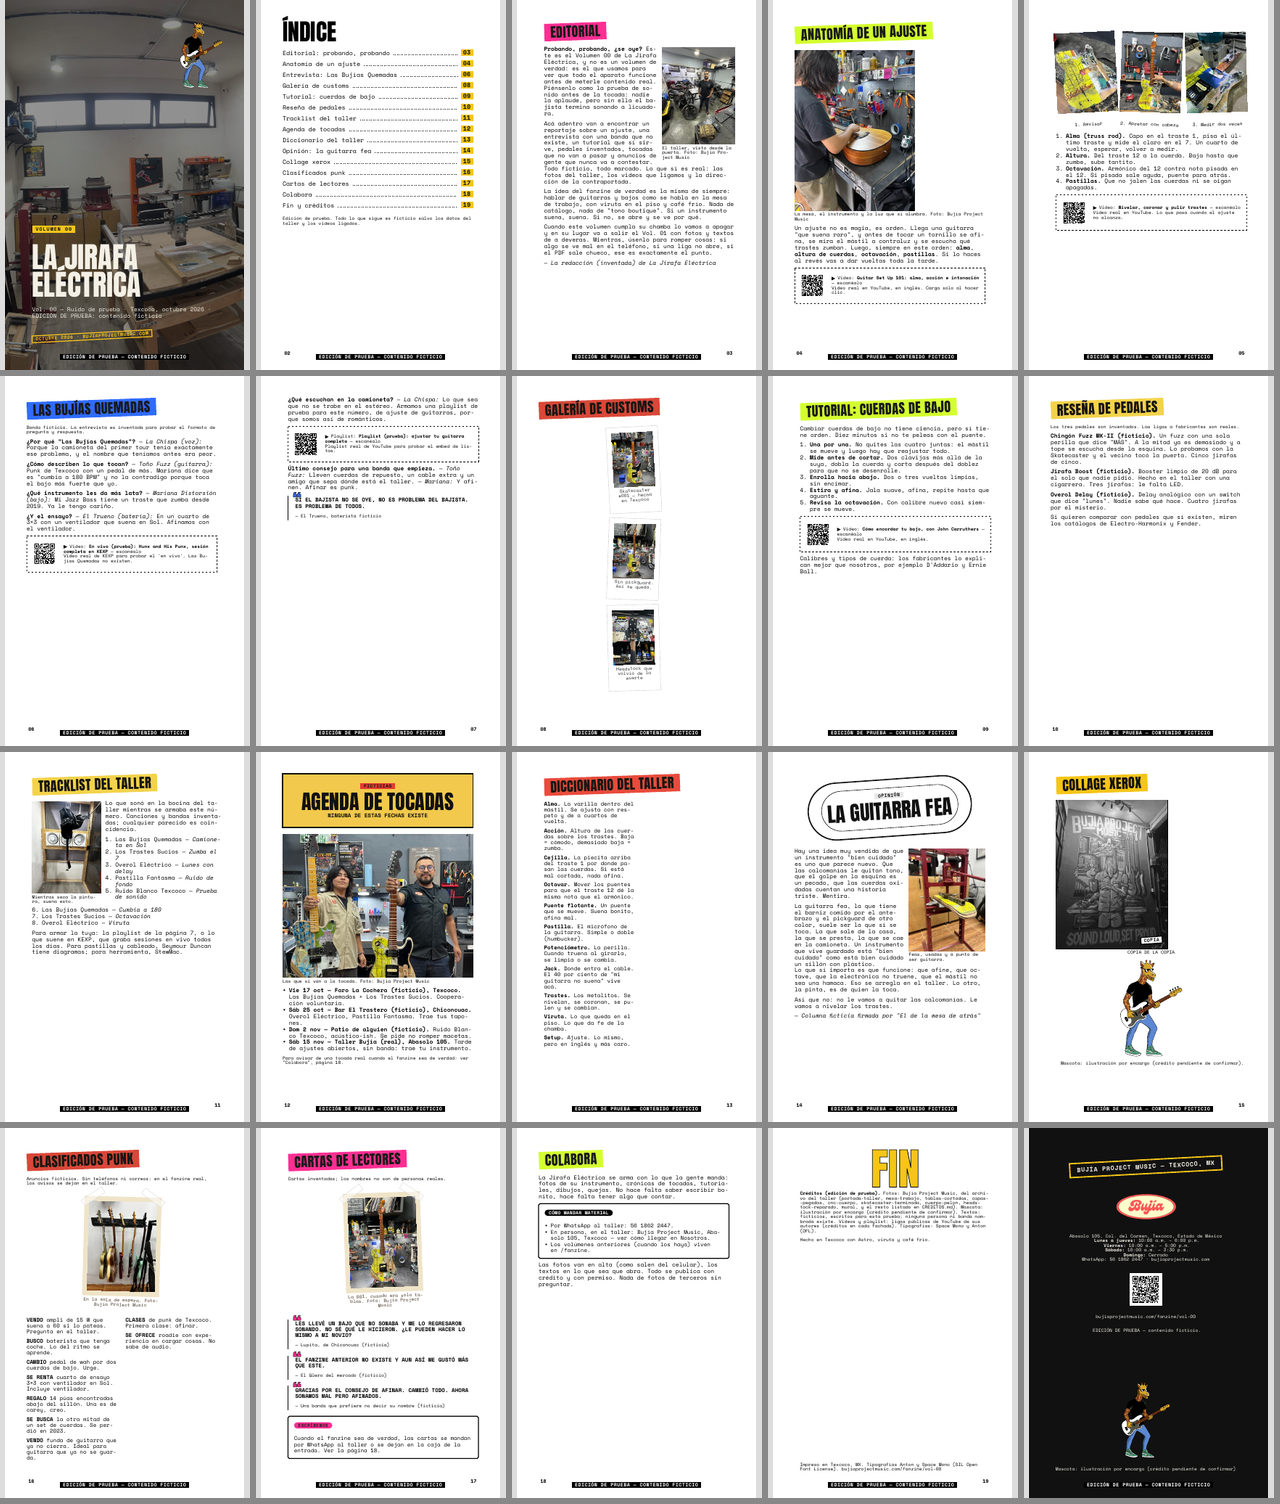
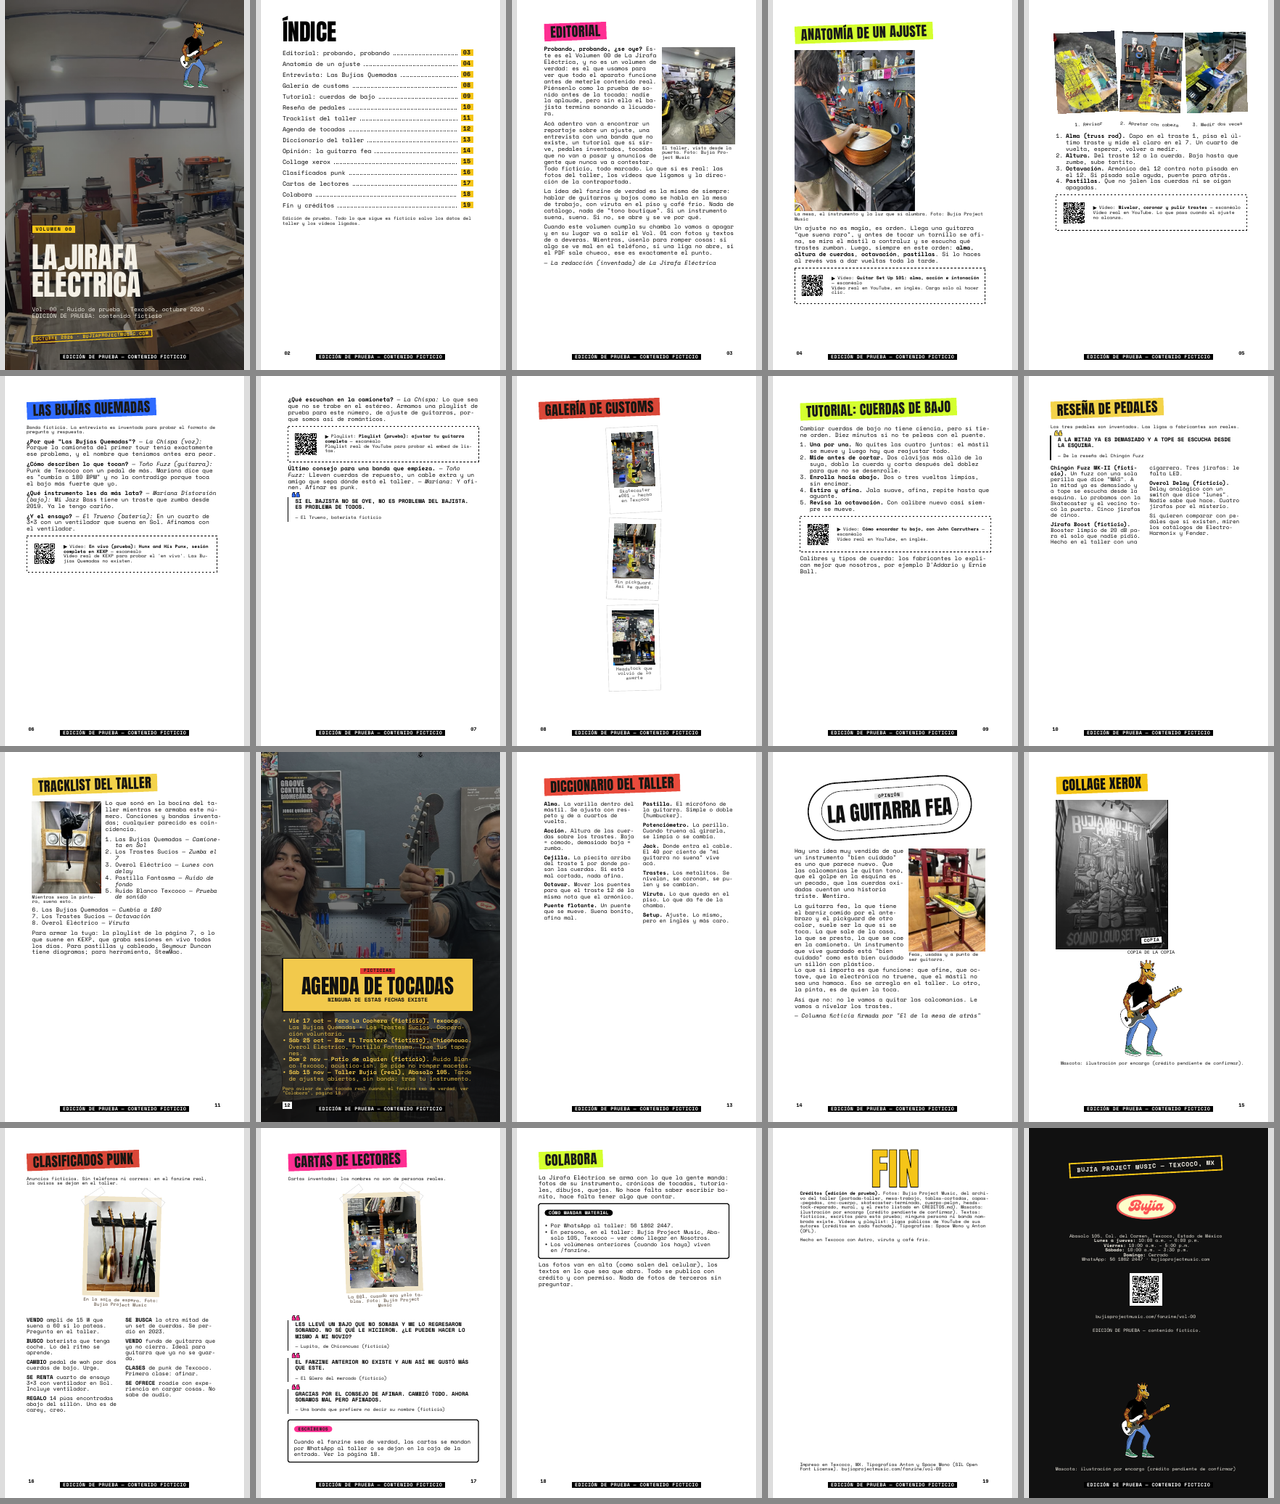
Páginas a sangre con texto encima, columnas parejas y recursos de revista en vol-00
- <Pliego bleed="/img/foto.jpg">: la foto cubre la hoja hasta el
  BleedBox, se oscurece con un degradado hacia abajo y el texto va en el
  color papel del esquema, al pie (apertura tipo revista). bleed={true}
  da fondo ink.
- <Columnas>: las columnas se emparejan midiendo el contenido, en vez de
  llenar la primera hasta el final de la página.
- vol-00: la agenda de tocadas (pág. 12) va a sangre con el texto encima;
  la reseña de pedales (pág. 10) en 2 columnas con una cita destacada.
- docs/IMPRESO.md: recursos de revista con gemelo y cómo usarlos.

Claude-Session: https://claude.ai/code/session_01WqY86TTkoZPoiC64k1uU2m

diff --git a/scripts/print/export.ts b/scripts/print/export.ts
@@ -218,7 +218,9 @@ export async function exportar(fuente: FuenteVolumen, salidaDir: string): Promis
       foto.usos.push({ pliego: n, componente: 'Pliego', ancho_pt: anchoColocado('Pliego', c.props, foto, 1) });
       (c.props as any).bleed = foto.id;
     }
-    pliegos.push({ n, tipo: c.tipo as Pliego['tipo'], esquema: c.esquema, nodos, origen: { archivo: fuente.archivo, linea: c.linea }, ...(typeof c.props.bleed === 'string' ? { bleed: c.props.bleed } : {}) } as Pliego);
+    // bleed: imagen (id de foto) o true (fondo de color ink del esquema), como en Pliego.astro.
+    const bleed = typeof c.props.bleed === 'string' ? { bleed: c.props.bleed } : c.props.bleed === true ? { bleed_color: true } : {};
+    pliegos.push({ n, tipo: c.tipo as Pliego['tipo'], esquema: c.esquema, nodos, origen: { archivo: fuente.archivo, linea: c.linea }, ...bleed } as Pliego);
   }
 
   // ── Índice (página 2) ──────────────────────────────────────────────────

diff --git a/scripts/print/lib/tipos.ts b/scripts/print/lib/tipos.ts
@@ -44,6 +44,9 @@ export interface Pliego {
   esquema: string | null;
   /** Relleno generado porque faltaba el <Pliego n> (o venía vacío). */
   relleno?: 'colabora' | 'notas' | 'taller';
+  /** Foto a sangre (id) con el texto encima, o fondo de color del esquema. */
+  bleed?: string;
+  bleed_color?: boolean;
   nodos: Nodo[];
   origen?: { archivo: string; linea: number };
 }

diff --git a/docs/IMPRESO.md b/docs/IMPRESO.md
@@ -327,6 +327,16 @@ OptimizedImage, VideoPoster/VideoOldTV/VideoCinema (QR), DatosTaller, más
 Portada, Indice y Contraportada (páginas fijas) y las etiquetas HTML
 genéricas (`p`, `div`, `ul`, `li`, `strong`, `em`, `a`, `small`…).
 
+Recursos de revista que ya tienen gemelo y conviene usar en los MDX:
+`<Columnas n={2}>` (las columnas se emparejan midiendo el contenido),
+`<Quote>` para citas destacadas, `<Note>` para recuadros, `<Divider>`,
+`<Gallery>`/`<Polaroid>`/`<PhotoOld>`/`<Xerox>` para fotos, y
+**`<Pliego bleed="/img/foto.jpg">`** para una página con la foto a toda la
+hoja (hasta el BleedBox) y el texto encima: la foto se oscurece con un
+degradado hacia abajo y el texto va en el color papel del esquema, pegado
+al pie (apertura tipo revista; en la web la foto queda arriba del bloque).
+`bleed={true}` da la página con fondo del color ink del esquema.
+
 `<ImageSide>`: el texto que sigue en el MDX rodea la foto como en la web,
 con el paquete `wrap-it` vendorizado en `print/vendor/` (versión fijada,
 licencia incluida, nada se descarga al compilar).
